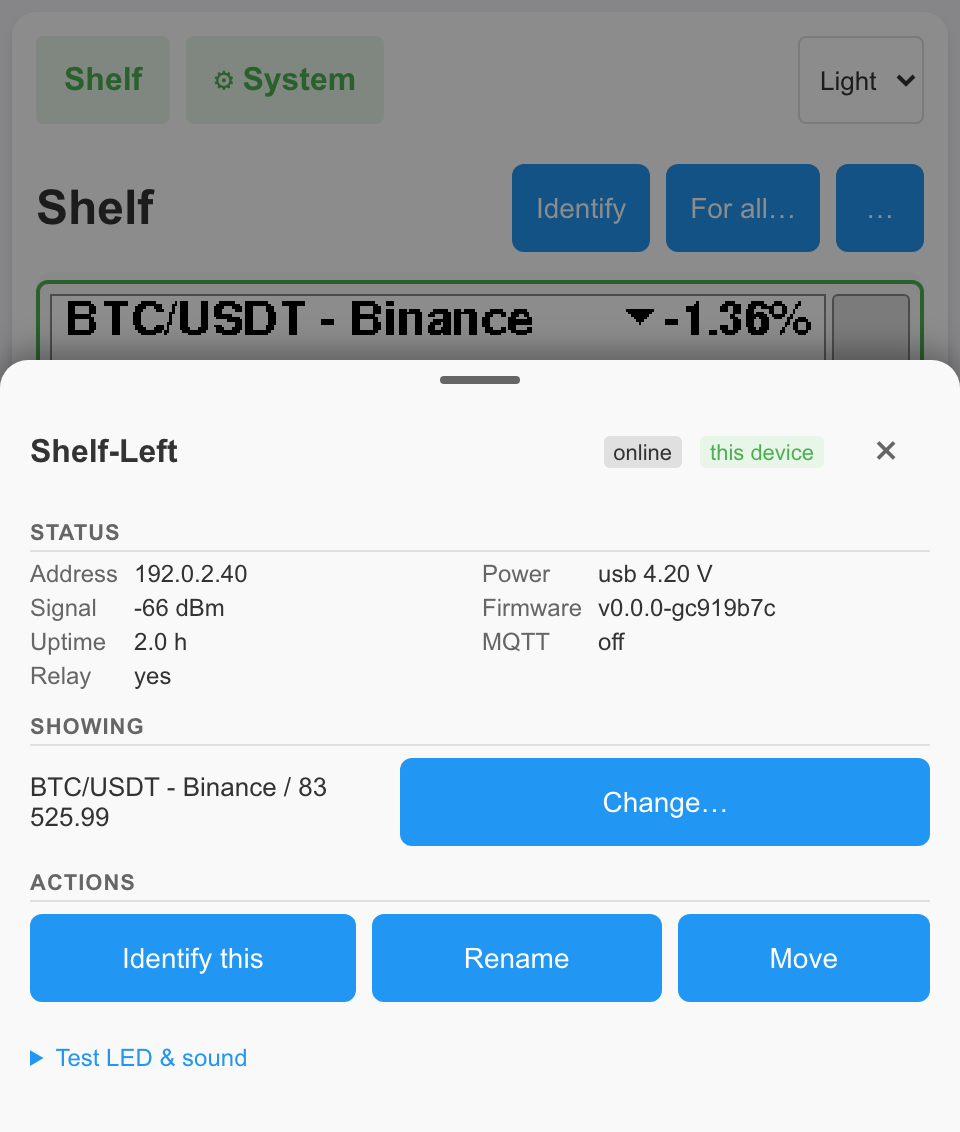
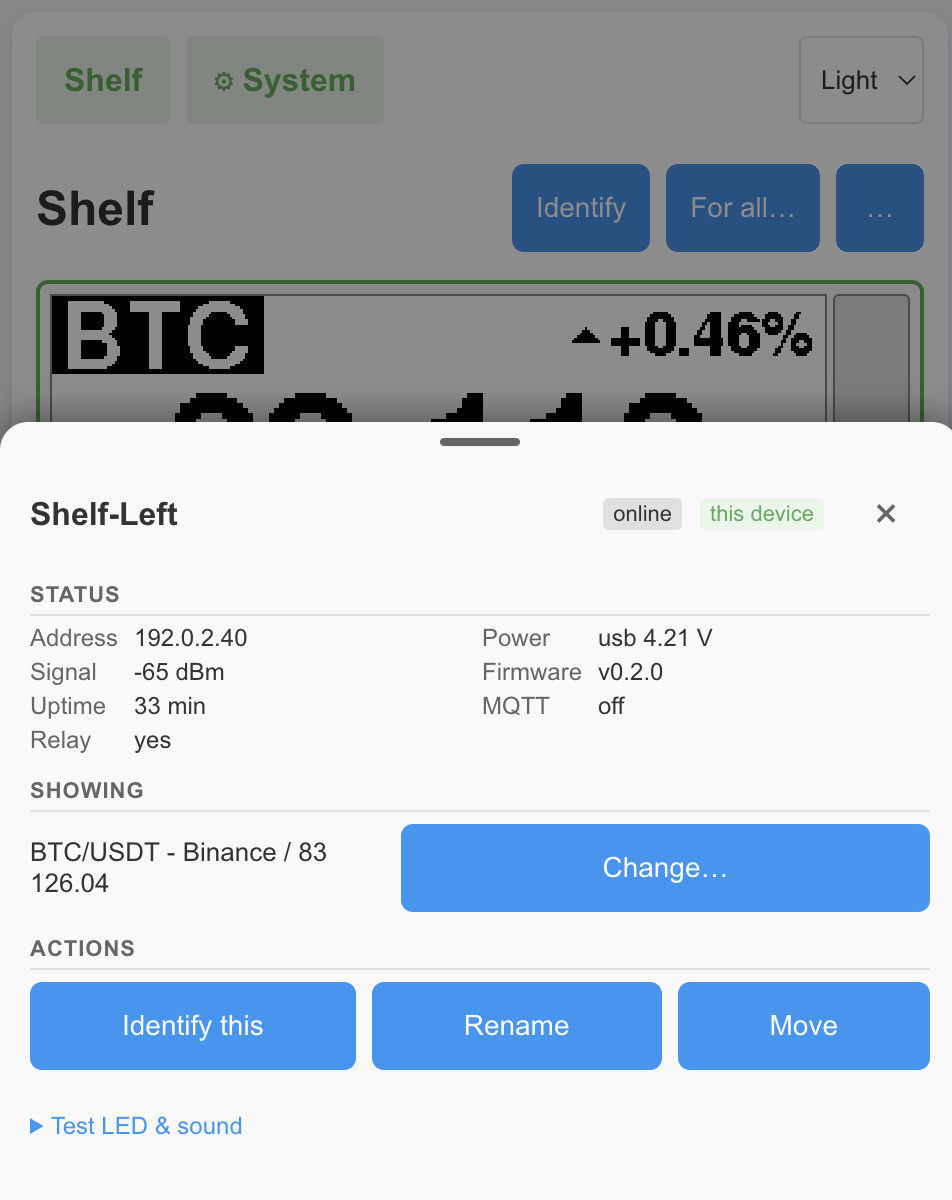
docs: screenshots for the badge and 2x2 grid
Re-rendered e-ink frames (name badge, trimmed and full-precision prices,
the 2x2 grid) and new web screenshots: content editor with the View and
Short name fields in the single and grid views, device sheet, System
page. Alt texts updated; the grid frame joins the README hero and the
Pages landing.

diff --git a/README.md b/README.md
@@ -8,11 +8,12 @@
 ![Platform: ESP32 / PlatformIO](https://img.shields.io/badge/platform-ESP32%20%C2%B7%20PlatformIO-lightgrey)
 
 <p align="center">
-  <img src="docs/images/hero-ticker.png" width="640" alt="The 296x128 e-ink frame of a TickrDisplay ticker: BTC/USDT from Binance, the price large in the middle, a down-triangle with the 24-hour change top right, a sparkline bottom left, the age line 'just now' and the USB bolt bottom right">
+  <img src="docs/images/hero-ticker.png" width="440" alt="The 296x128 e-ink frame of a TickrDisplay ticker: the short name BTC white on a black badge top left, an up-triangle with the 24-hour change top right, the price 83 126 large in the middle, a sparkline bottom left, the age line 'just now' and the USB bolt bottom right">
+  <img src="docs/images/screen-grid.png" width="440" alt="The same e-ink panel as a 2x2 grid of four tickers: BTC and ETH from Binance, XBT from Kraken and SOL from CoinGecko, each cell with its name badge, change with triangle and price, the age line and the USB bolt in the last cell">
 </p>
 <p align="center">
-  <img src="docs/images/shelf.png" width="360" alt="The shelf web page at phone width: two device cards stacked in one column with live e-ink previews of a BTC/USDT and an ETH/USDT Binance ticker, LED bars, the device names Shelf-Left (this device) and Shelf-Right, and the Identify, For all and drawer buttons above">
-  <img src="docs/images/content-editor-ticker.png" width="360" alt="The Content editor for Shelf-Left as a bottom sheet over the dimmed shelf: source Ticker, market Binance, symbol BTC and market USDT, the refresh interval in minutes, the Advanced disclosure and the Test, Save and Back buttons">
+  <img src="docs/images/shelf.png" width="360" alt="The shelf web page at phone width: two device cards stacked in one column with live e-ink previews of a BTC/USDT and an ETH/USDT Binance ticker with their name badges, LED bars, the device names Shelf-Left (this device) and Shelf-Right, and the Identify, For all and drawer buttons above">
+  <img src="docs/images/content-editor-ticker.png" width="360" alt="The Content editor for Shelf-Left as a bottom sheet over the dimmed shelf: source Ticker, view One ticker, market Binance, symbol BTC and market USDT, the refresh interval in minutes, the Advanced section open with the label, the short name for the panel badge, decimals, separator and LED rule, and the Test, Save and Back buttons">
 </p>
 
 > **Status: alpha.** Developed and used on two units (board revisions A and B). Expect rough edges and breaking changes before `v1.0`. Flashing third-party firmware **voids the vendor warranty** – read the [Disclaimer](#disclaimer) first.
@@ -79,7 +80,7 @@ Full procedure, UART flashing, partition layout, risks and **going back to stock
 Settings live in `/config.json` on the device and are edited on **`http://<device-ip>/system`** (Network, Content source, Security, Power, Firmware, Advanced, About – one form, one *Save*); what a device shows is chosen from its card on the shelf (*Change…*). Every form is validated as a whole – an invalid field rejects the save with `400`.
 
 <p align="center">
-  <img src="docs/images/system-page.png" width="360" alt="The System page at phone width: the Network section with the connected Wi-Fi network, address and signal, the Content source section with Pull URL, refresh interval, MQTT server, port and topic fields, the Security section with the API token field, and the sticky Save button at the bottom">
+  <img src="docs/images/system-page.png" width="360" alt="The System page at phone width: the Network section with the connected Wi-Fi network, address and signal, the Content source section with Pull URL, refresh interval, MQTT server, port and topic fields, the Security section with the API token field, the collapsed Power, Firmware, Advanced and About sections and the Save button at the bottom">
   <img src="docs/images/device-sheet.png" width="360" alt="The device sheet for Shelf-Left as a bottom sheet over the dimmed shelf: header with the online and this-device badges, Status rows for address, power and cell voltage, signal, firmware, uptime, MQTT and relay, the Showing row with the current ticker and a Change button, the Identify this, Rename and Move actions and the Test LED and sound disclosure">
 </p>
 

diff --git a/docs/WEB_UI.md b/docs/WEB_UI.md
@@ -29,7 +29,7 @@ Legacy URLs redirect: `/panel` → `/`, `/group` → `/#group`, `/config` →
 `/system`, `GET /update` → `/system#firmware`.
 
 <p align="center">
-  <img src="images/shelf.png" width="400" alt="The shelf at phone width: two device cards stacked in one column with live e-ink previews of a BTC/USDT and an ETH/USDT ticker, LED bars, the device names and the Identify, For all and drawer buttons above">
+  <img src="images/shelf.png" width="400" alt="The shelf at phone width: two device cards stacked in one column with live e-ink previews of a BTC/USDT and an ETH/USDT ticker with their name badges, LED bars, the device names and the Identify, For all and drawer buttons above">
 </p>
 
 Everything about one device goes through its card: a click (tap, or Enter /
@@ -74,7 +74,8 @@ it. Everything about the fleet is on the toolbar and in the drawer.
 4. The card's next frame poll shows the result.
 
 <p align="center">
-  <img src="images/content-editor-ticker.png" width="400" alt="The Content editor for one device as a bottom sheet over the dimmed shelf: source Ticker, market Binance, symbol BTC and market USDT, the refresh interval, the Advanced disclosure and the Test, Save and Back buttons">
+  <img src="images/content-editor-grid.png" width="400" alt="The Content editor in the 2x2 grid view: four ticker rows with preset, symbol, market and short name, up, down, remove and Test buttons per row, the interval field with the grid hint, the Advanced section for the selected row and the Save and Back buttons">
+  <img src="images/content-editor-ticker.png" width="400" alt="The Content editor for one device as a bottom sheet over the dimmed shelf: source Ticker, view One ticker, market Binance, symbol BTC and market USDT, the refresh interval, the Advanced section open with the label, the short name for the panel badge, decimals, separator and LED rule, and the Test, Save and Back buttons">
 </p>
 
 A sleeping or offline card says *plug it in (USB) to change what it shows*

diff --git a/docs/TICKERS.md b/docs/TICKERS.md
@@ -116,6 +116,11 @@ the same row, the price centred below it and as large as it fits, the
 sparkline bottom-left, the age line bottom-right, badges in the corner
 ([`DEVICE_UI.md`](DEVICE_UI.md) → *Card texts and layout notes*).
 
+<p align="center">
+  <img src="images/hero-ticker.png" width="440" alt="E-ink frame of a BTC/USDT ticker: the BTC badge white on black top left, the change with an up-triangle top right, the price 83 126 without its fraction at the largest size, a sparkline and the age line 'just now'">
+  <img src="images/screen-ticker-eth.png" width="440" alt="E-ink frame of an ETH/USDT ticker: the ETH badge, the change, the price with its cents at the largest size because it fits, a sparkline and the age line">
+</p>
+
 * **Short name**: up to 7 characters white on black, 18 pt (12 or 9 pt
   when the badge would grow past half the row). Empty = derived from the
   symbol: the exchange presets and *Custom JSON* upper-case it (`btc` →
@@ -165,6 +170,11 @@ sparkline bottom-left, the age line bottom-right, badges in the corner
 in a cell of 148 × 64 px separated by 1 px lines: top left, top right,
 bottom left, bottom right in the order of the editor's rows. One source in
 the grid view is the single look of §4.
+
+<p align="center">
+  <img src="images/screen-grid.png" width="440" alt="E-ink frame as a 2x2 grid: BTC and ETH from Binance, XBT from Kraken and SOL from CoinGecko, each cell with a name badge, the change with its triangle and the price; the age line and the USB bolt share the bottom-right cell">
+  <img src="images/content-editor-grid.png" width="300" alt="The Content editor in the grid view: four ticker rows with preset, symbol, market and short name, up, down, remove and Test buttons per row, the interval field and the Advanced section for the selected row">
+</p>
 
 * **A cell**: the short name on a black badge (12 pt, 9 pt when it would
   grow past half the cell) with the change and its triangle right of it,

diff --git a/docs/index.md b/docs/index.md
@@ -9,7 +9,8 @@ description: Open-source replacement firmware for the TickrMeter ESP32 e-ink tic
 Crypto quotes fetched by the device itself, any text pushed over HTTP or MQTT, several devices arranged on one virtual shelf – no vendor account, no subscription, nothing leaves your LAN.
 
 <p align="center">
-  <img src="images/hero-ticker.png" width="640" alt="TickrDisplay e-ink frame: BTC/USDT from Binance with price, 24-hour change and sparkline">
+  <img src="images/hero-ticker.png" width="440" alt="TickrDisplay e-ink frame: the BTC badge, the price, the 24-hour change and a sparkline">
+  <img src="images/screen-grid.png" width="440" alt="TickrDisplay e-ink frame as a 2x2 grid: BTC, ETH, XBT and SOL with name badges, changes and prices">
 </p>
 
 - **Source code and documentation:** [github.com/vskiwi/tickrdisplay](https://github.com/vskiwi/tickrdisplay)
@@ -20,7 +21,7 @@ Crypto quotes fetched by the device itself, any text pushed over HTTP or MQTT, s
 
 ## What it does
 
-- **Cloud-free crypto tickers** – CoinGecko, Kraken and Binance presets, or any JSON API via *Custom JSON*; HTTPS verified against roots baked into the firmware.
+- **Cloud-free crypto tickers** – CoinGecko, Kraken and Binance presets, or any JSON API via *Custom JSON*; one ticker on the whole panel or up to four in a 2×2 grid; HTTPS verified against roots baked into the firmware.
 - **Push your own content** – `POST /api/screen`, MQTT or a Pull URL: title, value, LED colour, beep or RTTTL melody. Works from Home Assistant, Node-RED, curl or scripts.
 - **Two power modes** – always-on over USB with instant updates; deep sleep with periodic wake-ups on battery.
 - **The shelf** – every device on your LAN as a live card with an e-ink preview, drag-and-drop arrangement, groups without a server, firmware updates for the whole group.

diff --git a/docs/DEVICE_UI.md b/docs/DEVICE_UI.md
@@ -41,6 +41,11 @@ device behaves as USB; `/api/screen/state.status` says `power: "unknown"`
 and `/system` offers the override. A configured override draws the glyph
 of the *configured* source.
 
+<p align="center">
+  <img src="images/hero-ticker.png" width="440" alt="The content screen with one ticker: the BTC badge white on black top left, the change with its triangle top right, the price at the largest size, the sparkline bottom left, the age line and the USB bolt badge bottom right">
+  <img src="images/screen-grid.png" width="440" alt="The content screen as a 2x2 grid: four cells with name badge, change and price, 1 px separators, the age line and the USB bolt badge in the bottom-right cell">
+</p>
+
 ## State machine
 
 ```
